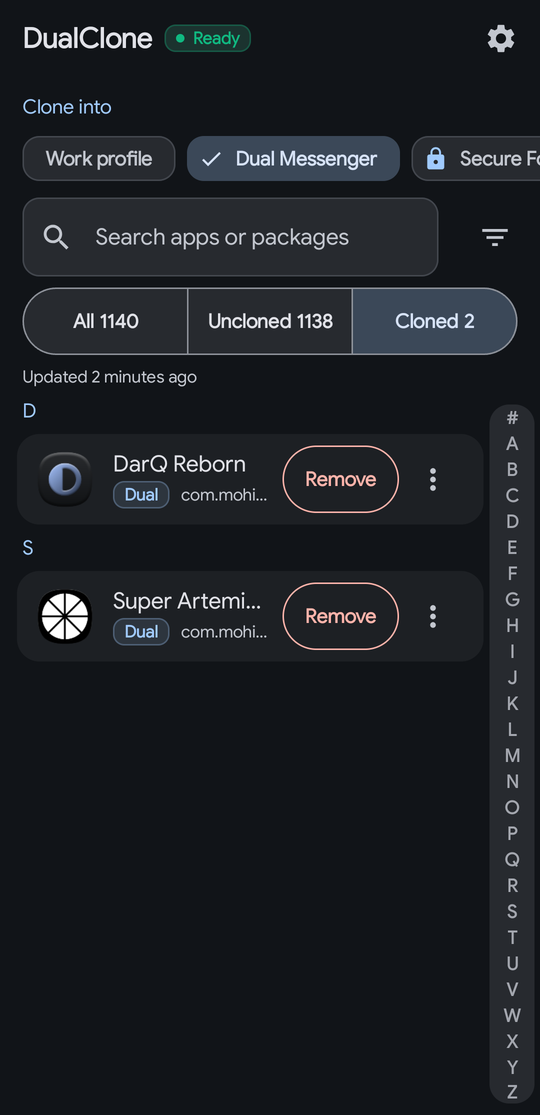
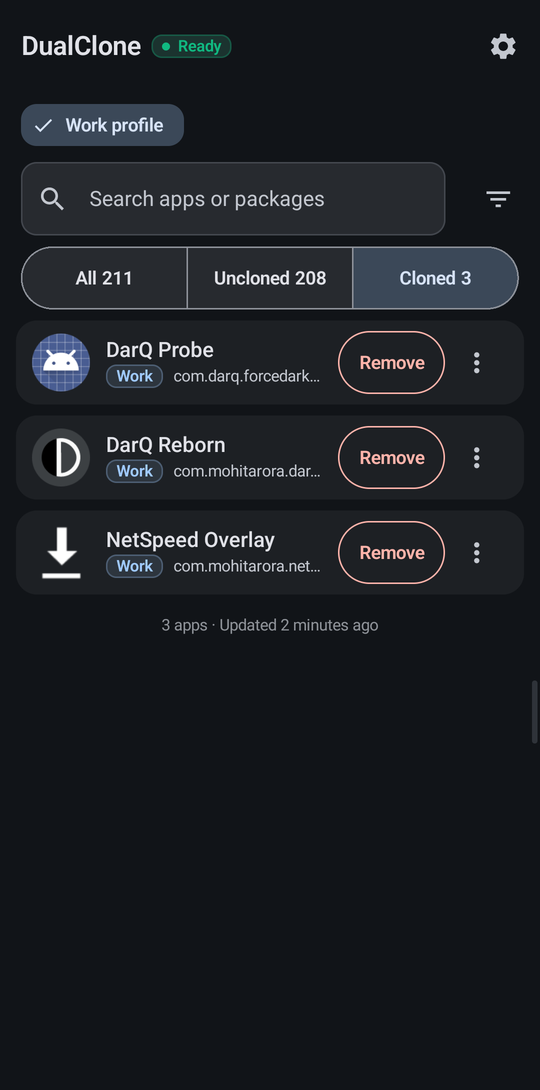
docs: refresh README and guides for the 1.0.7 toolchain and add new screenshots
Update SETUP for compileSdk 37, Gradle 9.8.2, AGP 9.5.0 and Kotlin 2.4.21, document the DualClone Debug label and the profile notice dialogs, note the quarterly Dependabot schedule, and replace the Home, Settings and More colors screenshots with demo data captures.

diff --git a/README.md b/README.md
@@ -12,9 +12,9 @@ Clone any installed app into Samsung Dual Messenger or a work profile with one t
 
 <!-- Screenshots use demo data only. See the README screenshots section of CONTRIBUTING.md. -->
 <p>
-  <img src="docs/screenshots/home.png" alt="Home screen showing the cloned apps in Dual Messenger with the profile selector" width="240">
+  <img src="docs/screenshots/home.png" alt="Home screen with the Cloned tab open, showing three apps cloned into a work profile" width="240">
   <img src="docs/screenshots/settings.png" alt="Grouped settings page with theme mode, color palette and Pure AMOLED black" width="240">
-  <img src="docs/screenshots/palette.png" alt="More colors sheet with Rose, Red, Cyan, Mono and a custom color picker" width="240">
+  <img src="docs/screenshots/palette.png" alt="More colors sheet with the Rose, Red, Cyan, Green and Mono presets and the custom color picker with a color square, hue strip and hex field" width="240">
 </p>
 
 ## What it does
@@ -26,7 +26,7 @@ Samsung One UI only lets you enable Dual Messenger for a short list of messaging
 * Search, sort, and filter by All, Uncloned and Cloned. Bulk clone and remove with a per-app result list.
 * Fast-scroll alphabet rail that stays slim when idle and expands with a floating preview bubble during drag.
 * Special Access (AppOps) controls for a clone, such as All Files Access and Display over other apps.
-* Paused work profiles are detected and flagged before any operation.
+* Paused work profiles are detected before any operation, and a dialog explains the problem without moving the list.
 * DualClone never clones itself.
 * System apps and a profile owner such as Island are never listed as clones, and DualClone refuses to remove a profile owner.
 * Clones without a host app (orphans) are listed and can be removed.

diff --git a/ARCHITECTURE.md b/ARCHITECTURE.md
@@ -100,6 +100,8 @@ After a verified removal in a work profile, Samsung One UI Home can keep a stale
 * Startup grace period for destination state. A 1500 millisecond grace window prevents empty profile guidance cards from flashing during cold boot before Shizuku profile discovery completes.
 * Expandable fast-scroll rail. A 4dp thumb when idle expands smoothly into the full alphabet rail with haptic feedback and a floating preview bubble only during touch and drag. App cards reclaim full horizontal width with zero rail padding, and system gesture exclusion is active only while dragging.
 * Direct list start without group headers. Group letter headers and top reconcile status are removed from the main column so cards start immediately beneath filter tabs. Quiet reconcile timestamps sit in the list footer.
+* Profile notices are dialogs. A paused profile, a copy of DualClone inside a profile and a failed profile scan open as a dialog styled like the Secure Folder one, so the list never shifts down. A notice shows once, stays dismissed while the problem lasts and returns when the problem returns or the profile chip is tapped again. A notice with no action shows one tonal Dismiss button on the right.
+* Debug builds are labelled DualClone Debug through a debug-only `app_name` string.
 * Modal dialog button layout. Multi-action alert dialogs place dismiss buttons on the left and primary actions on the right with natural button widths and an expanding spacer, preventing label truncation when button labels exceed standard widths.
 
 ## Testing

diff --git a/SETUP.md b/SETUP.md
@@ -5,8 +5,8 @@ How to build DualClone, run the tests and use the device scripts.
 ## Prerequisites
 
 * JDK 17 or newer (CI uses 21). Point `JAVA_HOME` at it.
-* Android SDK with platform 36 and a recent build-tools package. Set `ANDROID_HOME` or create `local.properties` with `sdk.dir`.
-* Gradle is provided by the wrapper (8.13). Do not install it separately.
+* Android SDK with platform 37 (compileSdk 37, targetSdk 36, minSdk 28) and a recent build-tools package. Set `ANDROID_HOME` or create `local.properties` with `sdk.dir`.
+* Gradle is provided by the wrapper (9.8.2, with Android Gradle Plugin 9.5.0 and Kotlin 2.4.21). Do not install it separately.
 * Python 3.10 or newer with Pillow for the device scripts (`pip install pillow`).
 * `adb` from Android platform-tools on `PATH`.
 
@@ -18,7 +18,7 @@ Do not put machine specific paths such as `org.gradle.java.home` in the reposito
 ./gradlew assembleDebug
 ```
 
-On Windows use `.\gradlew.bat`. The debug APK is `app/build/outputs/apk/debug/app-debug.apk`. Its application id is `com.mohitarora.dualclone.debug`, so it installs next to a release build.
+On Windows use `.\gradlew.bat`. The debug APK is `app/build/outputs/apk/debug/app-debug.apk`. Its application id is `com.mohitarora.dualclone.debug`, so it installs next to a release build. The debug build is named DualClone Debug on the launcher and in the app, so it is never mistaken for the release app.
 
 The full local gate is the same as CI:
 

diff --git a/docs/RELEASING.md b/docs/RELEASING.md
@@ -242,6 +242,6 @@ If the old key is lost or fully compromised, rotation cannot be proven. Generate
 
 * Build provenance. Add the `actions/attest-build-provenance` action to `release.yml` with `id-token: write` and `attestations: write`, attest `dist/DualClone-vX.Y.Z.apk`, and tell users to verify with `gh attestation verify`. Pin the action by SHA.
 * Reproducibility. Build the tag twice on clean runners and compare the unsigned APK contents. Fix timestamps and dependency versions until they match.
-* Dependency review. Enable Dependabot alerts and the dependency review action on pull requests.
+* Dependency review. Enable Dependabot alerts and the dependency review action on pull requests. Version update pull requests run quarterly with a 7 day cooldown, and workflow action bumps arrive as one grouped pull request. Security updates ignore the schedule.
 * Branch protection. Require the `Build` workflow and one review before merging to `main`.
 * Play App Signing does not apply. DualClone is not distributed through Google Play, so there is no upload key and the key described here is the only signing key.

diff --git a/CONTRIBUTING.md b/CONTRIBUTING.md
@@ -58,7 +58,7 @@ adb -s <serial> exec-out screencap -p > docs/screenshots/home.png
 | :--- | :--- |
 | `home.png` | Home with the Cloned tab and Shizuku Ready |
 | `settings.png` | Settings top of page |
-| `palette.png` | More colors sheet |
+| `palette.png` | More colors sheet with the custom color picker |
 
 ## Commit messages
 
